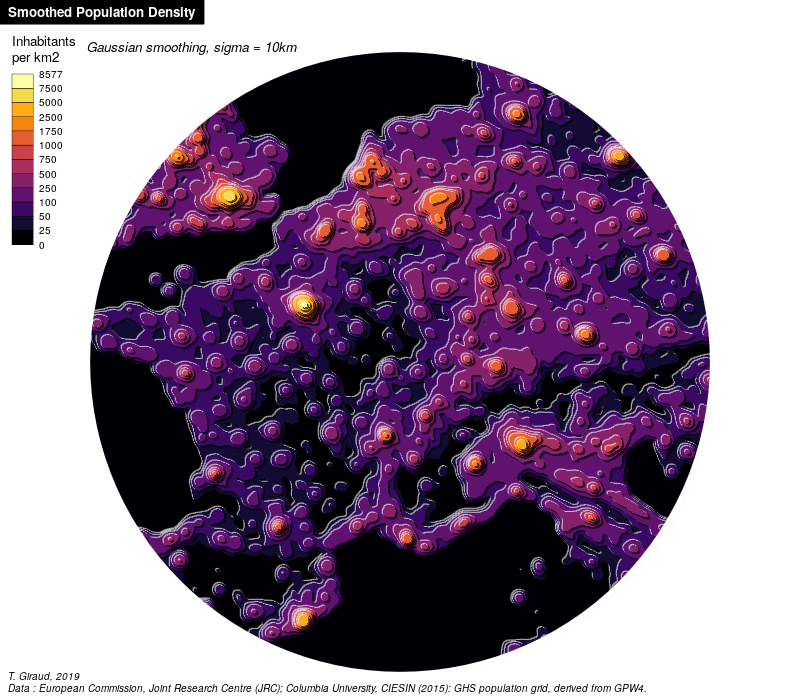
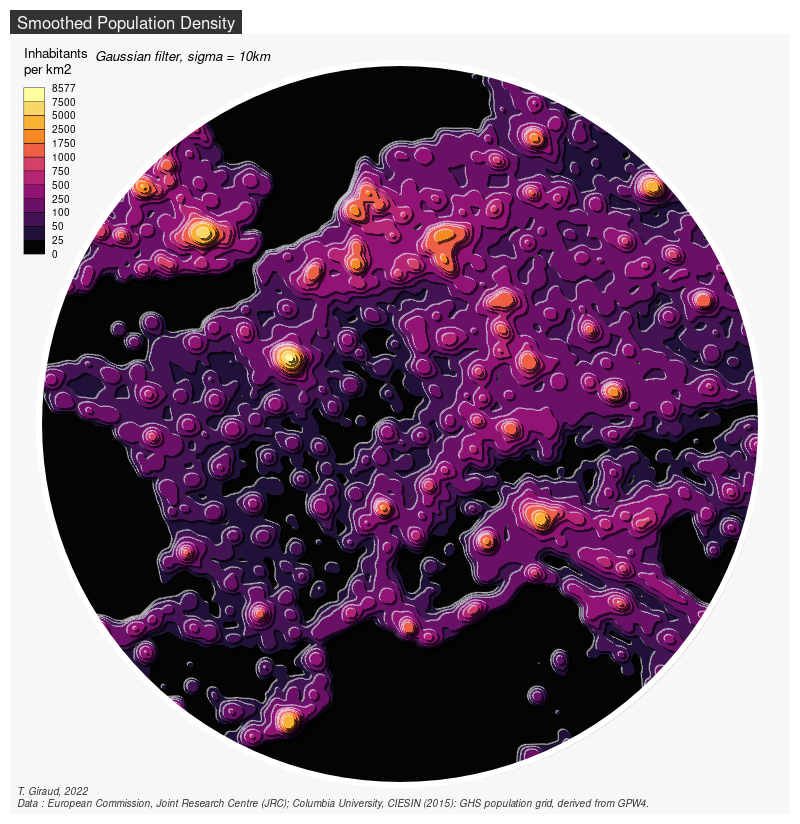
update README

diff --git a/README.md b/README.md
@@ -32,12 +32,12 @@ spatial manipulation and display rely on [`sf`](https://github.com/r-spatial/sf)
 
 ## Installation
 * From CRAN
-```{r}
+```r
 install.packages("tanaka")
 ```
 
 * Development version on GitHub
-```{r}
+```r
 require(remotes)
 install_github("riatelab/tanaka")
 ```
@@ -45,10 +45,10 @@ install_github("riatelab/tanaka")
 ## Demo
 
 * This example is based on the dataset shipped within the package. 
-```{r}
+```r
 library(tanaka)
-library(raster)
-ras <- raster(system.file("grd/elev.grd", package = "tanaka"))
+library(terra)
+ras <- rast(system.file("tif/elev.tif", package = "tanaka"))
 tanaka(ras, breaks = seq(80,400,20), 
        legend.pos = "topright", legend.title = "Elevation\n(meters)")
 ```
@@ -56,7 +56,7 @@ tanaka(ras, breaks = seq(80,400,20),
 
 * This example is based on an  elevation raster downloaded via 
 [`elevatr`](https://github.com/jhollist/elevatr). 
-```{r}
+```r
 library(tanaka)
 library(elevatr)
 library(terra)
@@ -76,38 +76,51 @@ tanaka(ras, breaks = seq(500,4800,250), col = cols)
 * The last example illustrates the use of tanaka with non-topographical data. 
 This map is based on the [Global Human Settlement Population Grid](https://ghsl.jrc.ec.europa.eu/ghs_pop.php) (1km). 
 
-```{r}
-library(raster)
+```r
+library(terra)
 library(sf)
-library(cartography)
 library(tanaka)
-
-temp <- tempfile()
-data_url <- "http://cidportal.jrc.ec.europa.eu/ftp/jrc-opendata/GHSL/GHS_POP_GPW4_GLOBE_R2015A/GHS_POP_GPW42015_GLOBE_R2015A_54009_1k/V1-0/GHS_POP_GPW42015_GLOBE_R2015A_54009_1k_v1_0.zip"
-download.file(data_url, temp)
-unzip(temp, exdir = "pop")
-pop2015 <- raster("pop/GHS_POP_GPW42015_GLOBE_R2015A_54009_1k_v1_0/GHS_POP_GPW42015_GLOBE_R2015A_54009_1k_v1_0.tif")
+library(mapsf)
+# Download
+tempzip <- tempfile()
+tempfolder <- tempdir()
+data_url <- paste0("http://cidportal.jrc.ec.europa.eu/ftp/jrc-opendata/GHSL/", 
+                   "GHS_POP_GPW4_GLOBE_R2015A/GHS_POP_GPW42015_GLOBE_R2015A_54009_1k/", 
+                   "V1-0/GHS_POP_GPW42015_GLOBE_R2015A_54009_1k_v1_0.zip")
+download.file(data_url, tempzip)
+unzip(tempzip, exdir = tempfolder)
+# Import
+pop2015 <- rast(paste0(tempfolder, 
+                       "/GHS_POP_GPW42015_GLOBE_R2015A_54009_1k_v1_0/",
+                       "GHS_POP_GPW42015_GLOBE_R2015A_54009_1k_v1_0.tif"))
+# Mask raster
 center <- st_as_sf(data.frame(x=425483.8, y=5608290), 
-                   coords=(c("x","y")), crs = st_crs(pop2015))
+                   coords=(c("x","y")), 
+                   crs = st_crs(pop2015))
 center <- st_buffer(center, dist = 800000)
 ras <- crop(pop2015, st_bbox(center)[c(1,3,2,4)])
-mat <- focalWeight(x = ras, d = c(10000), type = "Gauss")
-rassmooth <- focal(x = ras, w = mat, fun = sum, pad = TRUE, padValue = 30)
+# Smooth values
+mat <- focalMat(x = ras, d = c(10000), type = "Gauss")
+rassmooth <- focal(x = ras, w = mat, fun = sum, na.rm = TRUE)
+# Map
 bks <- c(0,25,50,100,250,500,750,1000,1750,2500,5000, 7500,10000)
-png(filename = "circle.png", width = 800, height = 700, res = 100)
-par(mar = c(0,0,1.2,0))
-tanaka(x = rassmooth, 
-       breaks = bks, 
-       mask = center, 
+mf_export(x = center, filename = "circle.png", width = 800, res = 100)
+tanaka(x = rassmooth,
+       breaks = bks,
+       mask = center,
        col = hcl.colors(n = 12, palette = "Inferno"),
        shift = 2500,
+       add = TRUE,
        legend.pos = "topleft",
        legend.title = "Inhabitants\nper km2")
-plot(st_geometry(center), add = T, border = "white", lwd = 6)
-layoutLayer(title = "Smoothed Population Density", 
-            author = 'Data : European Commission, Joint Research Centre (JRC); Columbia University, CIESIN (2015): GHS population grid, derived from GPW4.', 
-            sources = 'T. Giraud, 2019', scale = F, frame = F, tabtitle = TRUE)
-text(-374516.2 ,6408290.0, "Gaussian smoothing, sigma = 10km", adj = 0, font = 3, cex = .8 )
+mf_map(center, add = TRUE, border = "white", col = NA, lwd = 6)
+mf_title(txt = "Smoothed Population Density")
+mf_credits(paste0("T. Giraud, 2022\n",
+                  "Data : European Commission, Joint Research Centre (JRC); ", 
+                  "Columbia University, CIESIN (2015): GHS population grid, ", 
+                  "derived from GPW4."))
+text(-250000 ,6420000, "Gaussian filter, sigma = 10km", 
+     adj = 0, font = 3, cex = .8, xpd = TRUE )
 dev.off()
 ```
 
